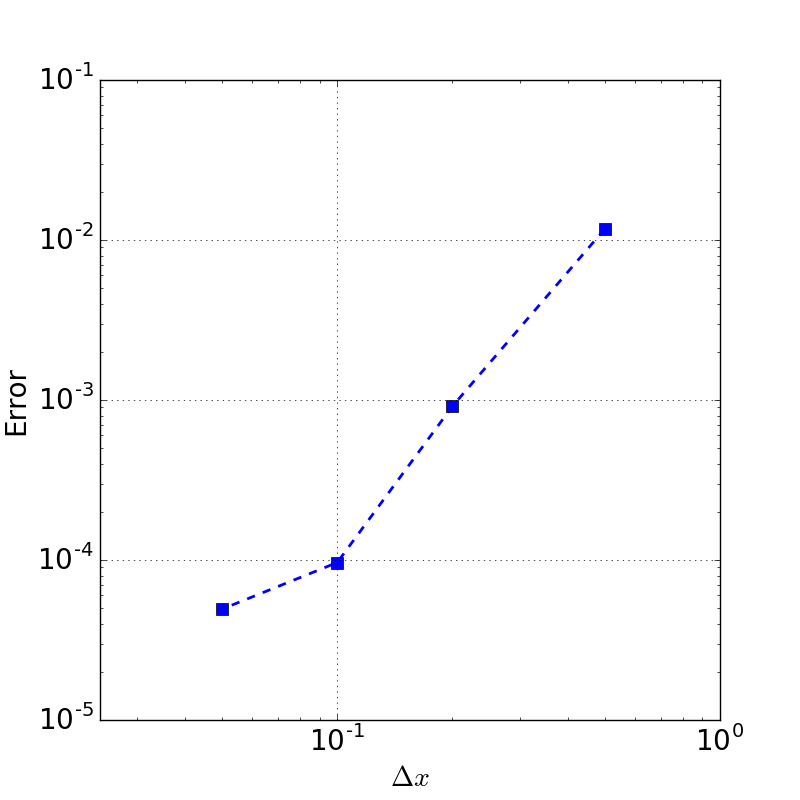
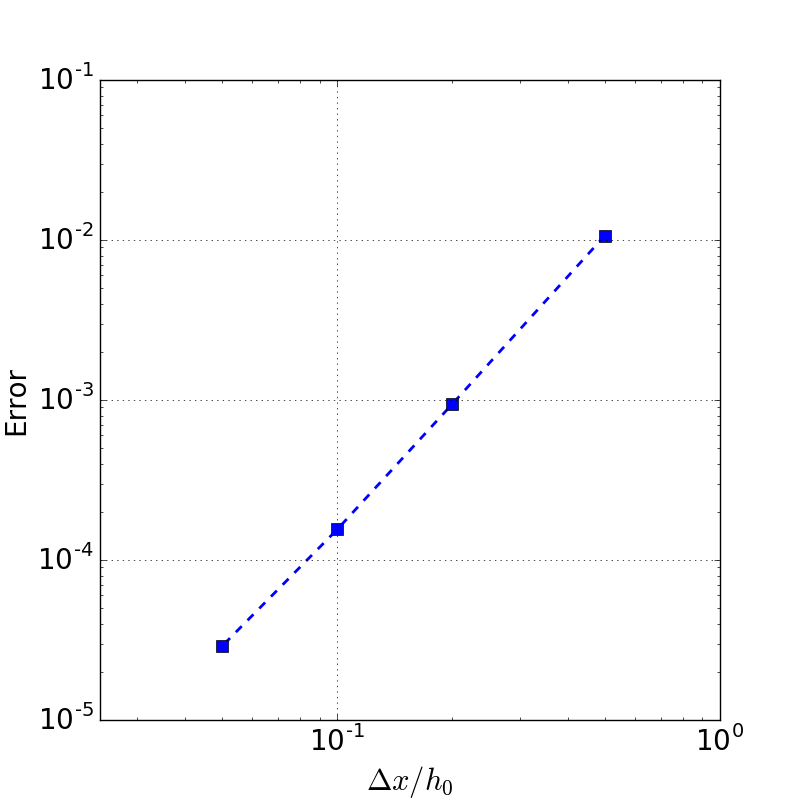
change labels in figure

diff --git a/Dispersive_modeling.tex b/Dispersive_modeling.tex
@@ -292,7 +292,7 @@ as the linear dispersion relations are identical.
 However, unlike Peregrine's momentum equation 
 the hydrostatic parts of (\ref{eq:madsen_momx}) 
 are written in a conservative form. Moreover, some nonlinearity is introduced
-in the dispersion term.\todo{Why do S and M introduce them ?} 
+in the dispersion term. \todo{Why do S and M introduce them ?} 
 Even though (\ref{eq:madsen_cons_mass}), 
 (\ref{eq:madsen_momx}) and (\ref{eq:madsen_new_op}) do not constitute a fully nonlinear set of Boussinesq equations, inheriting relative errors of order $\mu^2,\,\epsilon\mu^2$, 
 they do describe shoaling of solitary waves markedly
@@ -464,7 +464,7 @@ f_D = -\frac{g C_d^2 u |u|}{H^{5/3}},
 \end{equation}
 where $C_d$ is a Manning drag coefficient.
 Furthermore a parameter $d^*$ is chosen
-such that $H$ is replaced by $d^*$\todo{Geir: correct ?}
+such that $H$ is replaced by $d^*$ \todo{Geir: correct ?}
 if the water depth is smaller than this threshold, $H<d^*$.
 In this work, the parameter $d^*$ is set to $10^{-4}$. 
 %As noted by \cite{antuono2012role}, the shoreline dynamics can change  depending on the bottom friction coefficient and the water depth tolerance. 
@@ -555,7 +555,7 @@ surfaces from a \BoussClaw simulation with $\Delta x = 0.05h_0$ are shown for
 amplitude  $A=0.2h_0$.
 The computational results are in good agreement 
 with the analytic solutions concerning height, shape and propagation speed. 
-The amplitudes decreases very gently as the wave propagates.\todo{Change labels on axes to $\eta/h$ and $x/h$ andchange $t$ to $\hat t$ in figure 1.} 
+The amplitudes decreases very gently as the wave propagates.\todo{Change labels on axes to $\eta/h$ and $x/h$ andchange $t$ to $\hat t$ in figure 1. J:edited} 
 %The discrepancy may be  partially due to the numerical errors
 %and partly to the fact that 
 %the analytic solution for Serre's equations satisfies
@@ -568,7 +568,7 @@ The amplitudes decreases very gently as the wave propagates.\todo{Change labels 
 $A/h_0=0.2$ and $\Delta x/h_0=0.05$. The curves are marked by the normalized time
 $\hat t=\sqrt{g/h_0}t$. 
 The wave propagates from right to left,
-and the analytic solutions are black solid lines.}
+and the analytic solutions are solid lines.}
 \label{fig:soliton_ts}
 \end{figure}
 
@@ -607,7 +607,7 @@ denoted as $E_0$ and $E_1$.
     at $t=10\sqrt{g/h_0}$ for $\Delta x/h_0 = 0.05, 0.1, 0.2$ and $0.5$ (right).}
     \label{fig:soliton_error_energy}
 \end{figure}
-\todo{Change axis labels in figure 2}
+\todo{Change axis labels in figure 2 J:edited}
 
 In Figure \ref{fig:soliton_energy}, the energy of the solitary
 wave is shown with $A/h_0=0.2$ and $\Delta x = 0.2$.
@@ -628,10 +628,11 @@ the energy dissipation decreases with the grid increments.
 A physical model was constructed at the Coastal Hydraulic Laboratory of the U.S. Army Corps of Engineers
 in order to address beach erosion and severe flooding problems \citep{chl_bp5}. 
 The model beach consists of three piecewise linear slopes of 1:53, 1:150, and 1:13 with a vertical wall at the shoreline as shown in Figure \ref{fig:bp5_water_tank}.
-In the laboratory, the wavemaker was located at $23.23\m$.
+In the laboratory, the wavemaker was located at $23.23\m$, 
+and generated solitary waves.
 The gauge data from three cases are provided 
 where the ratio $A/h_0$ equals  $0.038$, $0.259$ and $0.681$, respectively,
-and the depth at the wavemaker is  $h_0=21.8\cm$.\todo{What is the wave shape?}
+and the depth at the wavemaker is  $h_0=21.8\cm$. \todo{What is the wave shape? J: solitary waves. edited}
 
 \begin{figure}[!htb]
 \centering
@@ -710,7 +711,7 @@ In Figure \ref{fig:init_setup}, the initial set-up for a test is shown.
 %, and the experiment results include various cases with the wave amplitudes and slope angles. Synolakis identified the breaking and non-breaking wave cases. 
 \begin{figure}[!htb]
 \centering
-\includegraphics[width=.7\textwidth]{_fig/initial_setup.png}
+\includegraphics[width=.8\textwidth]{_fig/initial_setup.png}
 \caption{Set-up of a numerical test for shoaling and runup of solitary waves.}
 \label{fig:init_setup}
 \end{figure}
@@ -811,10 +812,11 @@ for the non-breaking wave on a $10^\circ$ slope.
 
 %Depth-averaged models are not capable of handling the wave breaking unless they are modified by incorporating the energy dissipation. In this work, a breaking solitary wave will be considered on a uniform slope. For laboratory experiments, see Synolakis \{synolakis1987runup}.
 
-\citet{synolakis1987runup} performed a series of laboratory experiments for the run-up of solitary waves
-on plane beaches. 
-Data can be found at\todo{Make a proper reference of the URL} 
-NOAA's tsunami benchmark webpage \url{http://nctr.pmel.noaa.gov/benchmark/}.
+\citet{synolakis1987runup} 
+performed a series of laboratory experiments 
+for the run-up of solitary waves on plane beaches,
+data of which can be found at \cite{synolakis2007standards}.
+\todo{Make a proper reference of the URL J: edited} 
 A  breaking case is a solitary wave of amplitude $A/h_0=0.28$ 
 approaching a slope of $1:19.85$. 
 
@@ -847,7 +849,8 @@ breaking points (until the attachment of the plunger only) and
 gives no information on the following bore propagation.
 In figure \ref{fig:BoussClaw_runup} we have compared
 the experimental data with the \BoussClaw model 
-of $C_d = 0$ and $0.02$.\todo{But, $C_d$ is not dimensionless....} 
+of $C_d = 0$ and $0.02$.
+\todo{But, $C_d$ is not dimensionless....} 
 The agreement is good and the introduction of bed-friction 
 even seem to match the truncated swash tongue of the experiments well. However, this may be a coincidence. 
 Even though the  wave has broken and some irregular flow features are introduced thereby, we have no evidence of the flow state being
